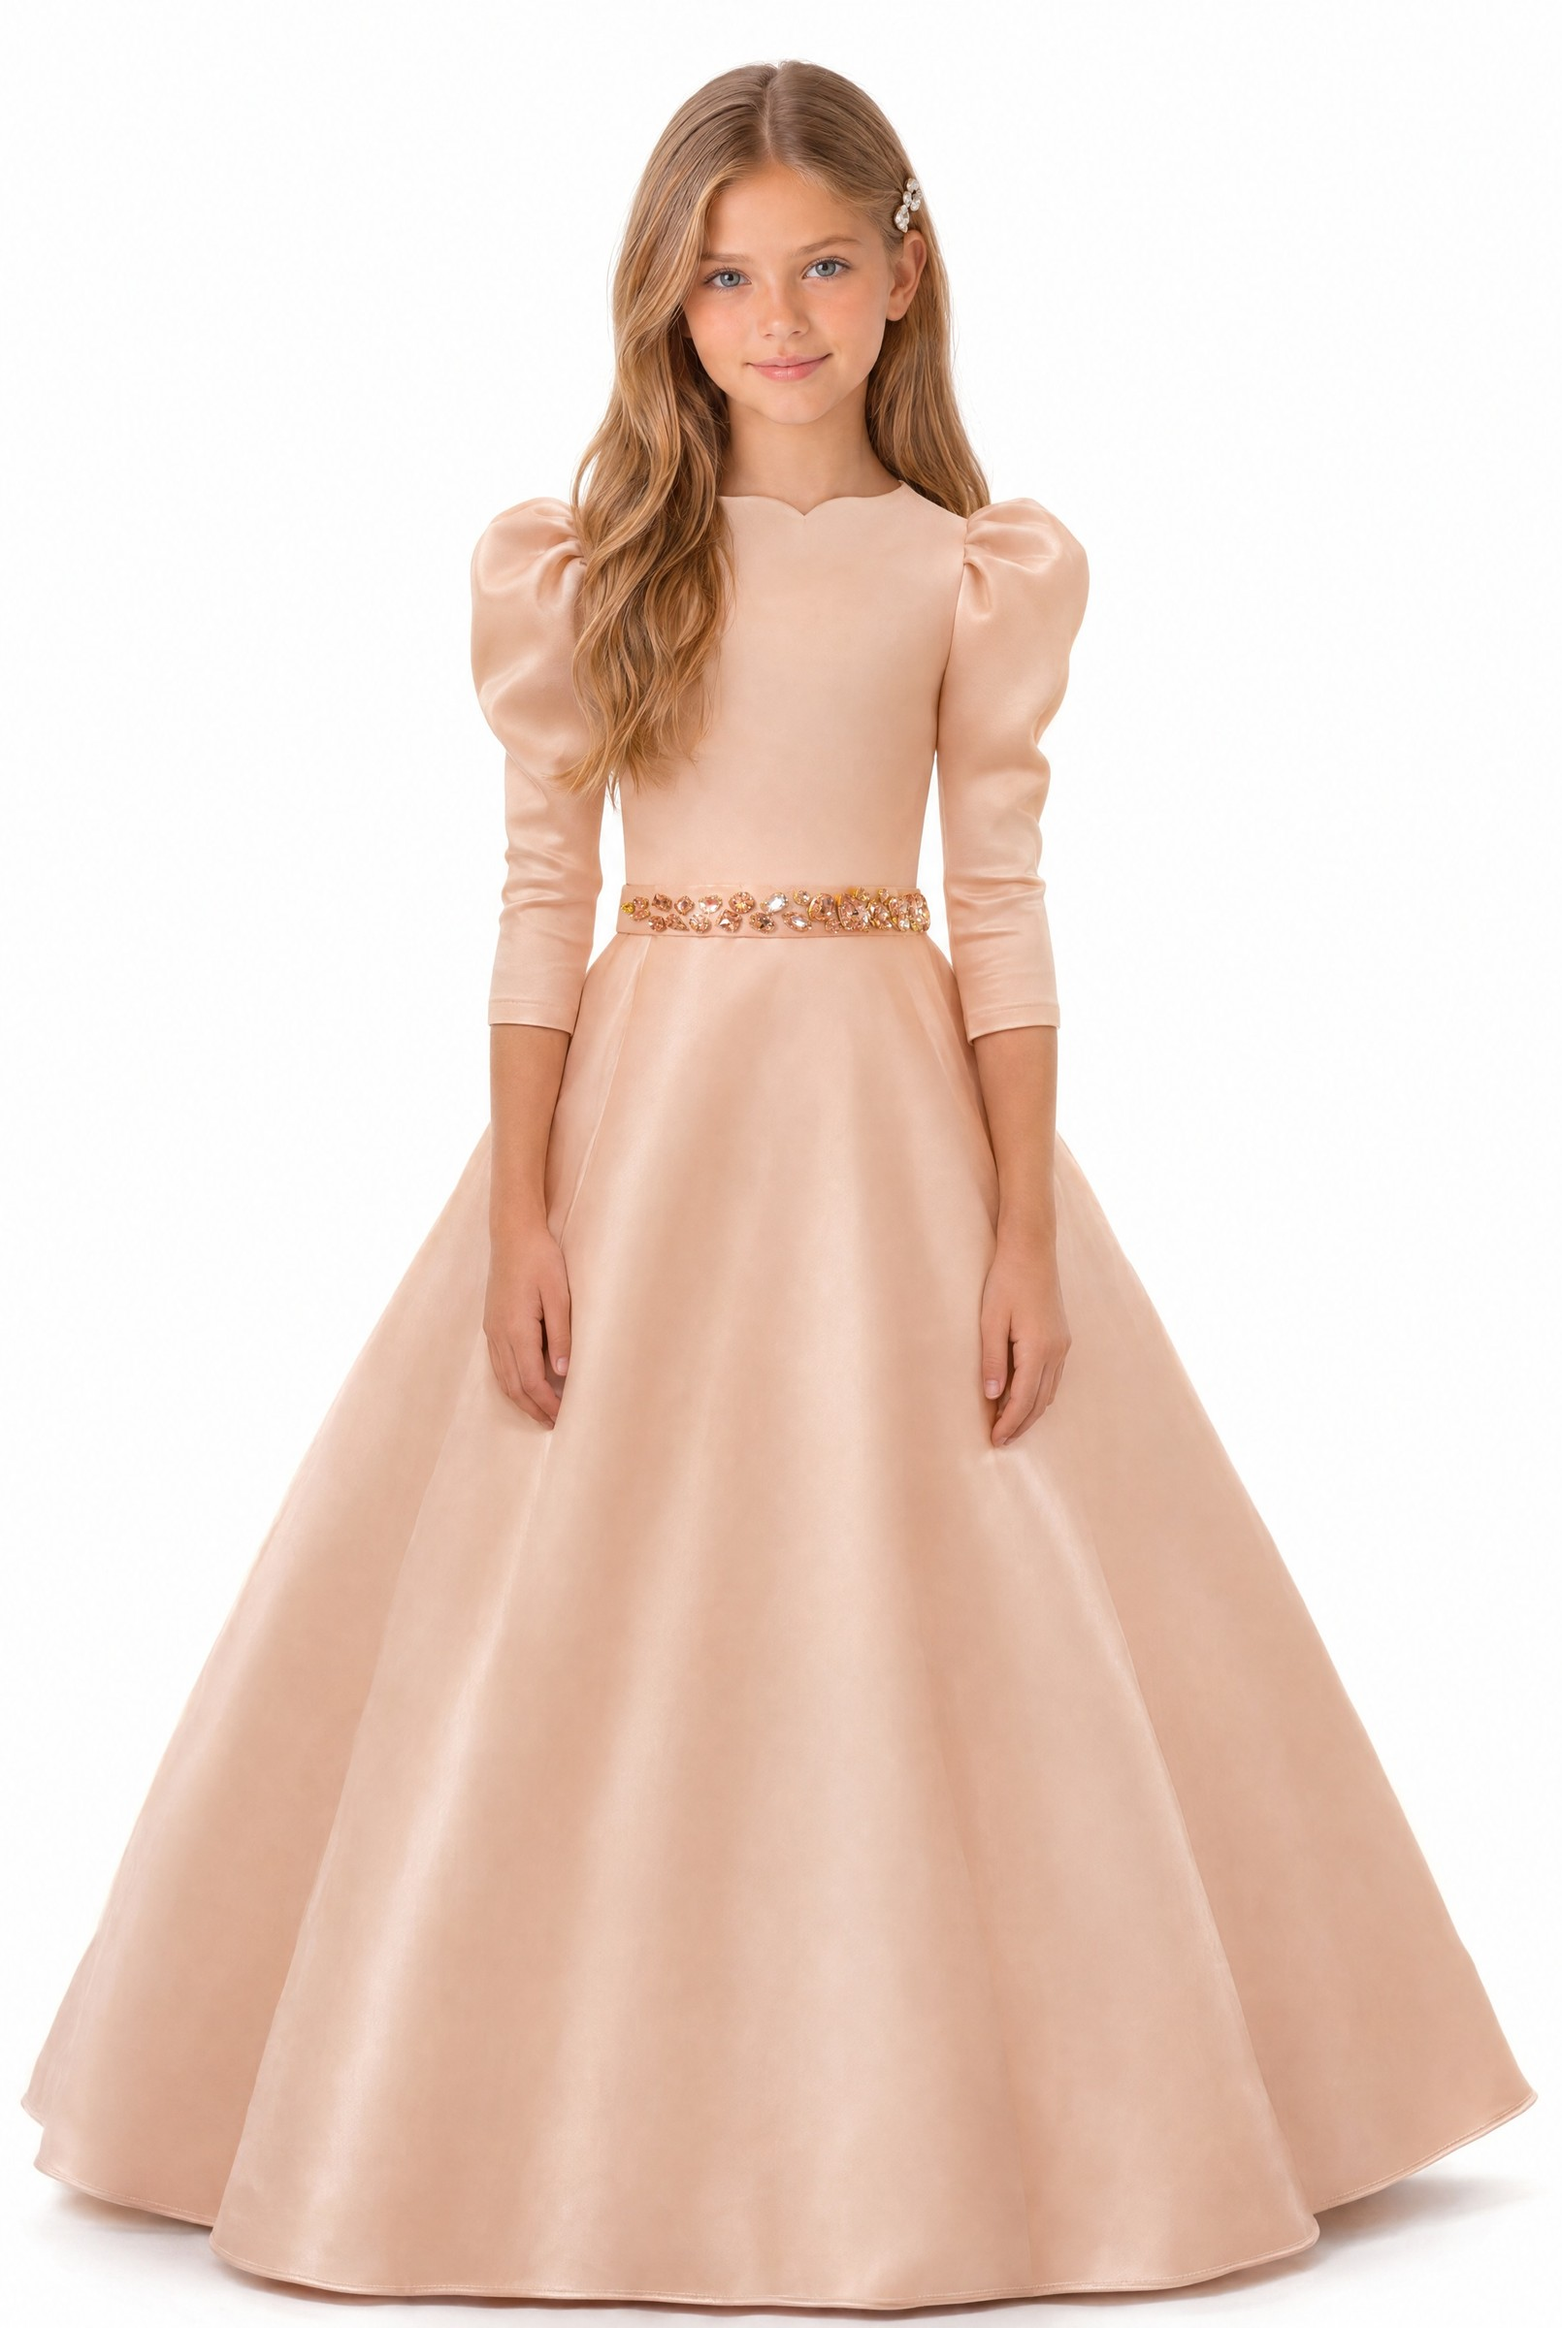
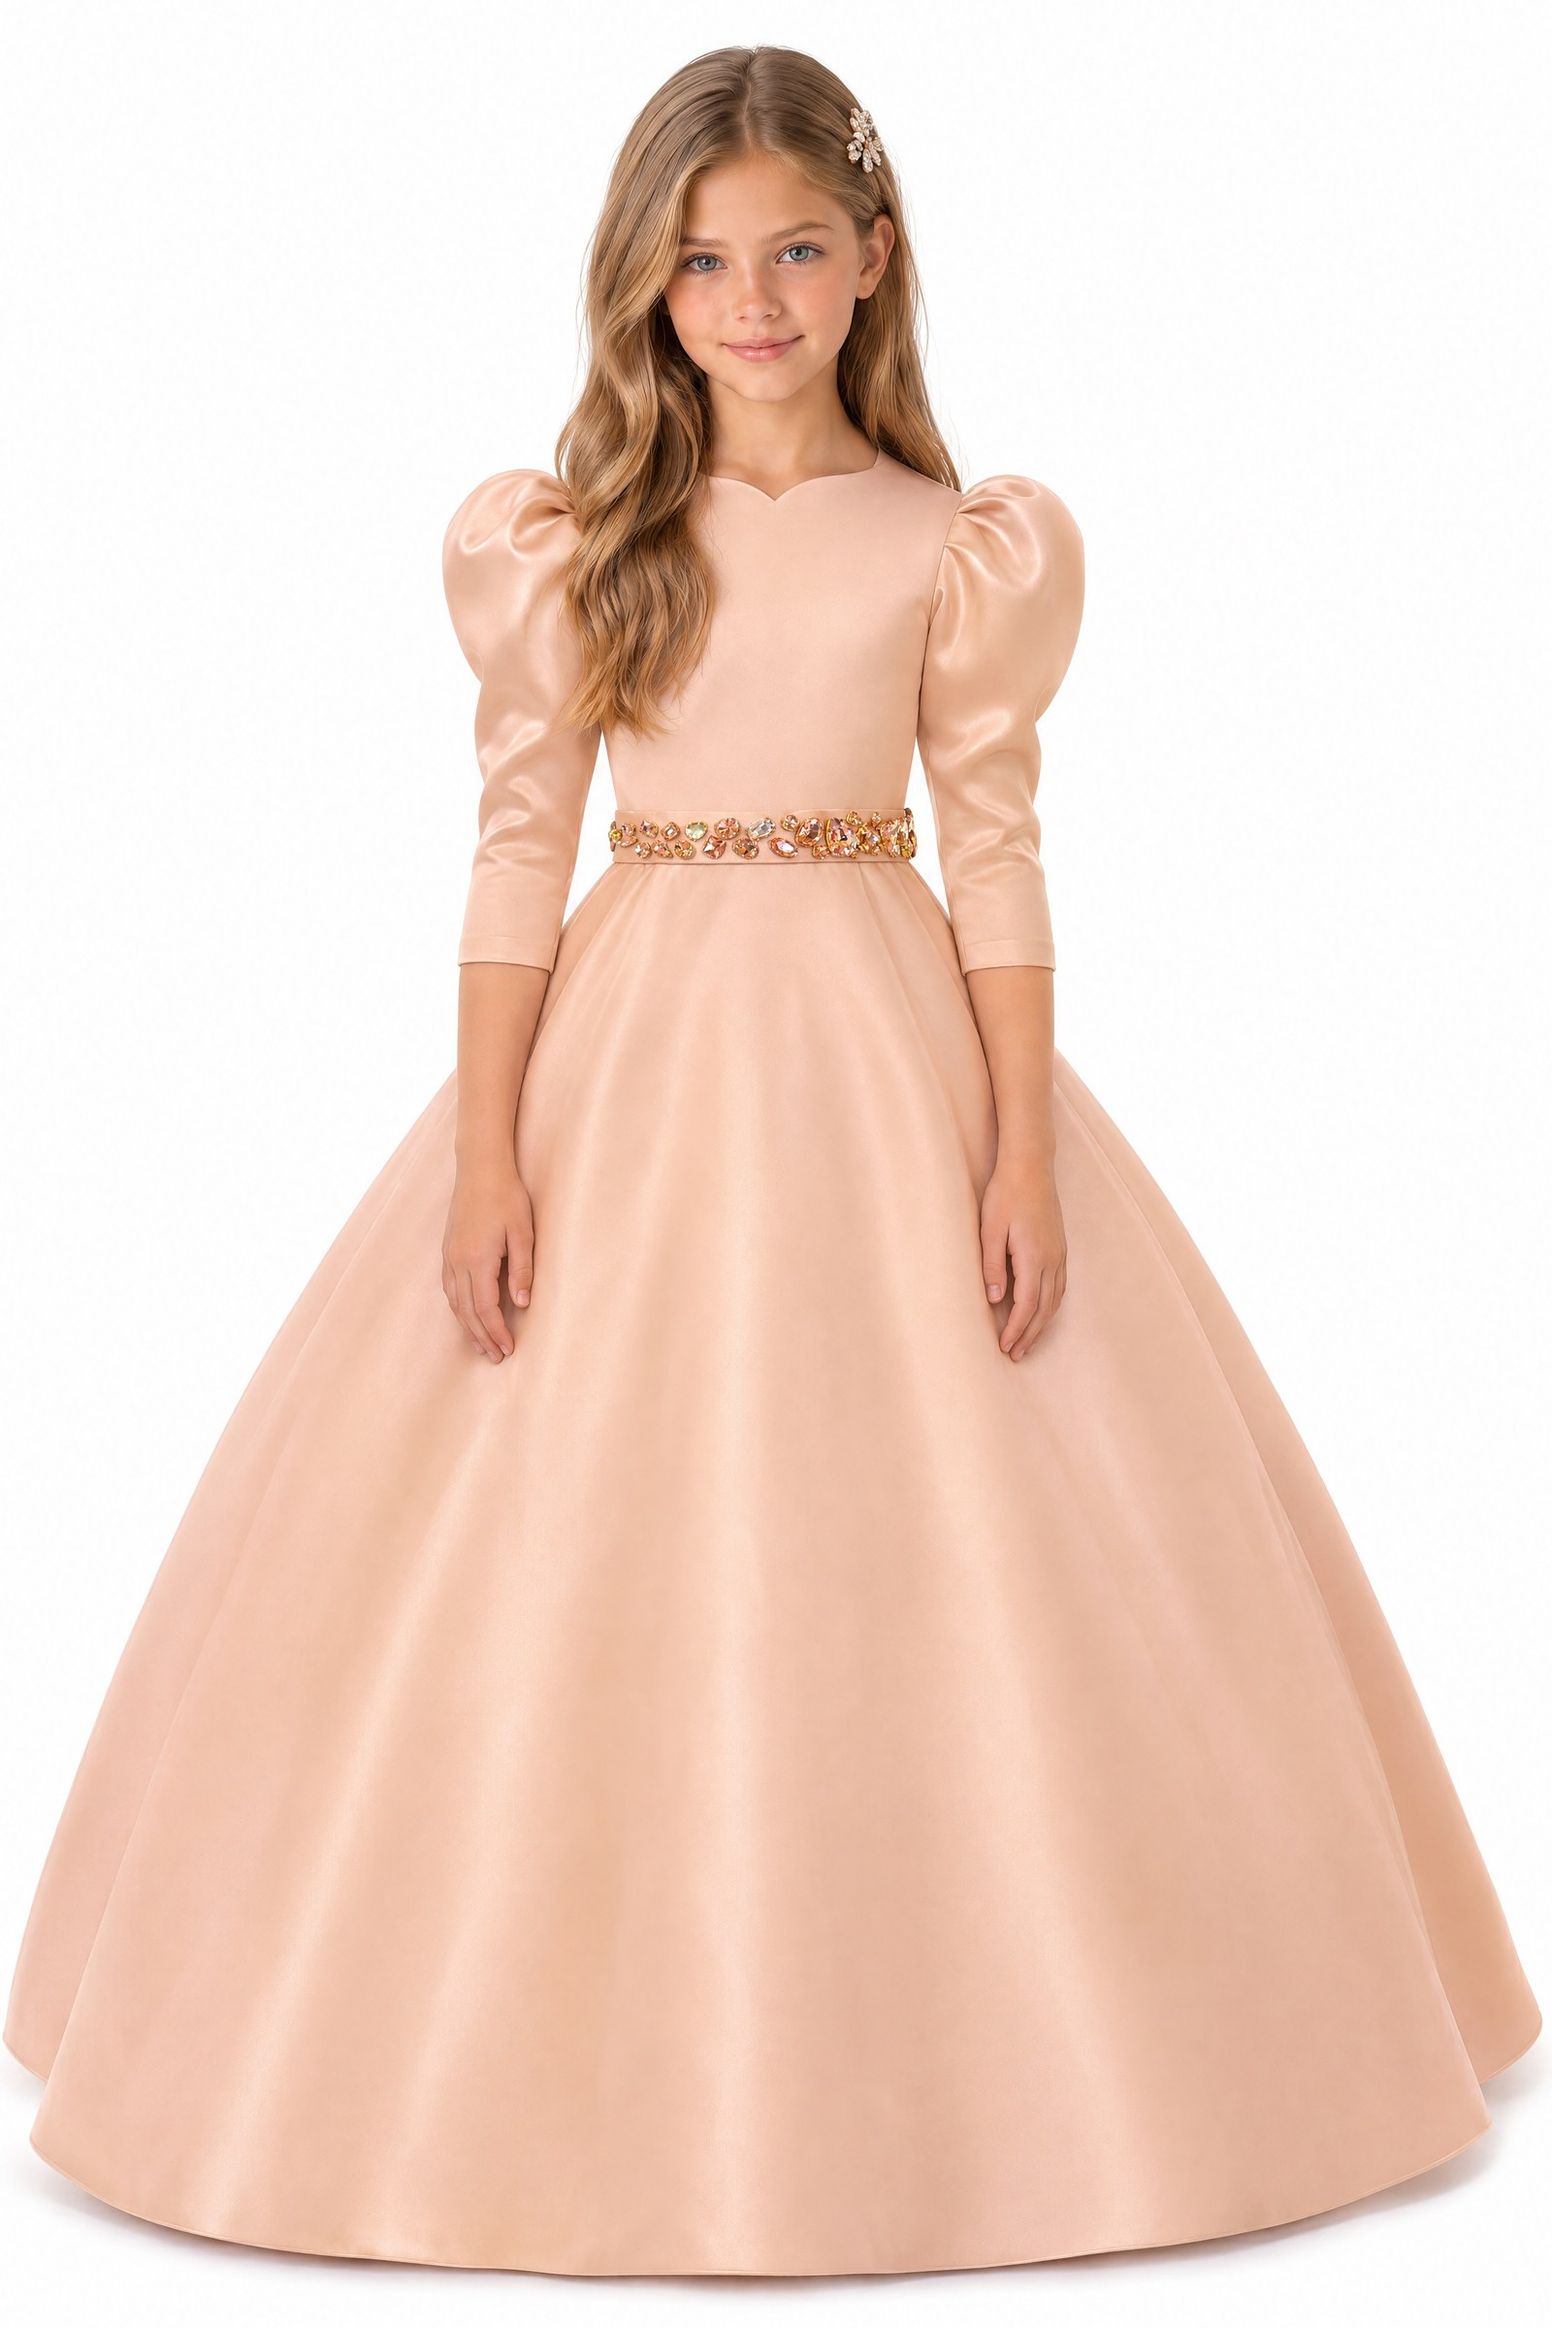
אישורים נוספים ויצירה מחדש של דגם 1 ילדה גדולה חלקה
Claude-Session: https://claude.ai/code/session_013bHfeojD3ywY6KMPCookv2

diff --git a/review/approved.md b/review/approved.md
@@ -289,3 +289,8 @@
 - **אושרו (ילדה גדולה, לוח חדש):** דגם 6 `big` אפשרות ALT (https://www.magnific.com/app/creation/u5YuS4kQLD); דגם 7 `big` אפשרות ALT (https://www.magnific.com/app/creation/YMsYmqDWeC) אחרי תיקון שרוול באידיאוגרם 4.5: בטנת מנטה מתחת לטול, לא שקוף (https://www.magnific.com/app/creation/lJIl08Ngv9, 2K).
 - **ילדה גדולה, ממתין לאישור:** דגם 9 https://www.magnific.com/app/creation/3z53eOVREY ; דגם 12 https://www.magnific.com/app/creation/jUBj2N9LD0 ; דגם 13 https://www.magnific.com/app/creation/gOtg2sOSXO ; דגם 5 https://www.magnific.com/app/creation/kspk9wg16B ; דגם 1 פרחים https://www.magnific.com/app/creation/s78sYSfl8e ; דגם 1 חלקה https://www.magnific.com/app/creation/1le13VEr4r
 - דגם 12 `d1` (פסים) באיכות max: https://www.magnific.com/app/creation/lJIlNFIgv9 , ממתין לאישור.
+
+## 18.11 (אישורים נוספים)
+- כלל מהמשתמשת: בתמונות ההשוואה PICK = אפשרות 1, ALT = אפשרות 2.
+- **אושרו:** דגם 7 ילדה גדולה אחרי תיקון השרוול (https://www.magnific.com/app/creation/lJIl08Ngv9); דגם 1 ילדה גדולה עם פרחים, אפשרות 1 (https://www.magnific.com/app/creation/s78sYSfl8e); דגם 5 ילדה גדולה, אפשרות 1 (https://www.magnific.com/app/creation/kspk9wg16B).
+- **נפסלה:** דגם 1 ילדה גדולה חלקה עם חגורת אבנים (לא זהה לדמות, מותן נמוכה מדי, השמלה לא פורחת מהחגורה). נוצרה מחדש ב־quality high: אפשרות 1 https://www.magnific.com/app/creation/nVLnioEYQD , אפשרות 2 https://www.magnific.com/app/creation/KLDKEJ8kqp . ממתין לאישור.
